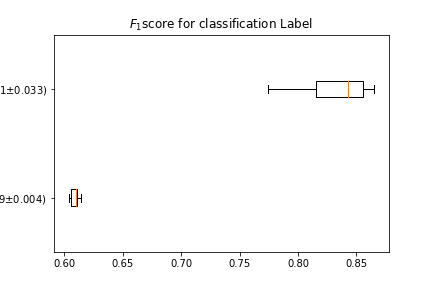
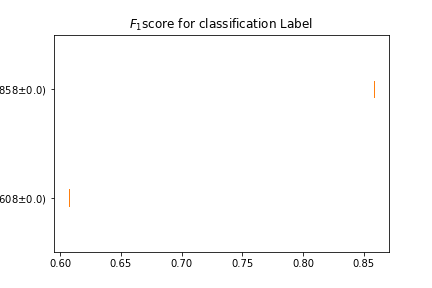
s

diff --git a/2_levels_problem/mode2/MLobject_tlevel.py b/2_levels_problem/mode2/MLobject_tlevel.py
@@ -95,26 +95,26 @@ class MyMLdata_2level:
         # 'param_list': [{'n_estimators': [200, 100, 1000, 500, 2000]}, {'alpha': [0.01, 0.1, 1, 10]}]
         # }
         # # all classification models:
-        # classification_default_param = {
-        # 'model_names': ['KNN', 'SVC', 'Decision tree', 'Random Forest',  'Gradient Boosting', 'Adaptive boosting', 'Naive Bayes', 'Neural Network'], # a list of name for each model.
-        # 'model_lists': [KNeighborsClassifier(n_neighbors = 5, weights='distance',n_jobs=-1), SVC(), DecisionTreeClassifier(), RandomForestClassifier(n_estimators=100, verbose =0,n_jobs=-1), GradientBoostingClassifier(verbose=0,loss='deviance'), AdaBoostClassifier(base_estimator = DecisionTreeClassifier(), n_estimators=10), GaussianNB(), MLPClassifier((100,100),alpha=0.001, activation = 'relu',verbose=0,learning_rate='adaptive')],# a list of model improted from sklearn
-        # 'gridsearchlist': [False, False, False, False, False, False, False, False],
-        # 'param_list': [{'n_neighbors':range(1, 30)}, {'C': [0.1, 1, 10], 'kernel': ('linear', 'poly', 'rbf')},  {'max_depth': [10, 100, 1e3]}, {'n_estimators':[10, 100]}, {'n_estimators':[10, 100]},{'n_estimators':[10, 100]}, {'var_smoothing':[1e-9, 1e-3]},{'hidden_layer_sizes':((100, 300, 500, 300, 100), (100, 300, 500, 500, 300, 100), (200, 600, 900, 600, 200))}]# a list of key parameters correspond to the models in the model_lists
-        # }
+        classification_default_param = {
+        'model_names': ['KNN', 'SVC', 'Decision tree', 'Random Forest',  'Gradient Boosting', 'Adaptive boosting', 'Naive Bayes', 'Neural Network'], # a list of name for each model.
+        'model_lists': [KNeighborsClassifier(n_neighbors = 5, weights='distance',n_jobs=-1), SVC(), DecisionTreeClassifier(), RandomForestClassifier(n_estimators=100, verbose =0,n_jobs=-1), GradientBoostingClassifier(verbose=0,loss='deviance'), AdaBoostClassifier(base_estimator = DecisionTreeClassifier(), n_estimators=10), GaussianNB(), MLPClassifier((100,100),alpha=0.001, activation = 'relu',verbose=0,learning_rate='adaptive')],# a list of model improted from sklearn
+        'gridsearchlist': [False, False, False, False, False, False, False, False],
+        'param_list': [{'n_neighbors':range(1, 30)}, {'C': [0.1, 1, 10], 'kernel': ('linear', 'poly', 'rbf')},  {'max_depth': [10, 100, 1e3]}, {'n_estimators':[10, 100]}, {'n_estimators':[10, 100]},{'n_estimators':[10, 100]}, {'var_smoothing':[1e-9, 1e-3]},{'hidden_layer_sizes':((100, 300, 500, 300, 100), (100, 300, 500, 500, 300, 100), (200, 600, 900, 600, 200))}]# a list of key parameters correspond to the models in the model_lists
+        }
         # # without SVC:
-        classification_default_param = {
-        'model_names': ['KNN', 'Decision tree', 'Random Forest',  'Gradient Boosting', 'Adaptive boosting', 'Naive Bayes', 'Neural Network'], # a list of name for each model.
-        'model_lists': [KNeighborsClassifier(n_neighbors = 5, weights='distance',n_jobs=-1), DecisionTreeClassifier(), RandomForestClassifier(n_estimators=100, verbose =0,n_jobs=-1), GradientBoostingClassifier(verbose=0,loss='deviance'), AdaBoostClassifier(base_estimator = DecisionTreeClassifier(), n_estimators=10), GaussianNB(), MLPClassifier((100, 300, 500, 300, 100),alpha=0.001, activation = 'relu',verbose=0,learning_rate='adaptive')],# a list of model improted from sklearn
-        'gridsearchlist': [False, False, False, False, False, False, False],
-        'param_list': [{'n_neighbors':range(1, 30)}, {'max_depth': [10, 100, 1e3]}, {'n_estimators':[10, 100]}, {'n_estimators':[10, 100]},{'n_estimators':[10, 100]}, {'var_smoothing':[1e-9, 1e-3]},{'hidden_layer_sizes':((100, 300, 500, 300, 100), (100, 300, 500, 500, 300, 100), (200, 600, 900, 600, 200))}]# a list of key parameters correspond to the models in the model_lists
-        }
+        # classification_default_param = {
+        # 'model_names': ['KNN', 'Decision tree', 'Random Forest',  'Gradient Boosting', 'Adaptive boosting', 'Naive Bayes', 'Neural Network'], # a list of name for each model.
+        # 'model_lists': [KNeighborsClassifier(n_neighbors = 5, weights='distance',n_jobs=-1), DecisionTreeClassifier(), RandomForestClassifier(n_estimators=100, verbose =0,n_jobs=-1), GradientBoostingClassifier(verbose=0,loss='deviance'), AdaBoostClassifier(base_estimator = DecisionTreeClassifier(), n_estimators=10), GaussianNB(), MLPClassifier((100, 300, 500, 300, 100),alpha=0.001, activation = 'relu',verbose=0,learning_rate='adaptive')],# a list of model improted from sklearn
+        # 'gridsearchlist': [False, False, False, False, False, False, False],
+        # 'param_list': [{'n_neighbors':range(1, 30)}, {'max_depth': [10, 100, 1e3]}, {'n_estimators':[10, 100]}, {'n_estimators':[10, 100]},{'n_estimators':[10, 100]}, {'var_smoothing':[1e-9, 1e-3]},{'hidden_layer_sizes':((100, 300, 500, 300, 100), (100, 300, 500, 500, 300, 100), (200, 600, 900, 600, 200))}]# a list of key parameters correspond to the models in the model_lists
+        # }
         # NN compared to Naive bias only only:
-        classification_default_param = {
-        'model_names': ['Naive Bayes', 'Neural Network'], # a list of name for each model.
-        'model_lists': [GaussianNB(), MLPClassifier(activation='relu', alpha=0.001, batch_size='auto', beta_1=0.9, beta_2=0.999, early_stopping=False, epsilon=1e-08, hidden_layer_sizes=(1024, 128), learning_rate='adaptive', learning_rate_init=0.001, max_iter=200, momentum=0.9, n_iter_no_change=10, nesterovs_momentum=True, power_t=0.5, random_state=None, shuffle=True, solver='adam', tol=0.0001, validation_fraction=0.1, verbose=1, warm_start=False)],# a list of model improted from sklearn
-        'gridsearchlist': [False, False],
-        'param_list': [{'var_smoothing':[1e-9, 1e-3]}, {'hidden_layer_sizes':((100, 300, 500, 300, 100), (100, 300, 500, 500, 300, 100), (200, 600, 900, 600, 200))}]# a list of key parameters correspond to the models in the model_lists
-        }
+        # classification_default_param = {
+        # 'model_names': ['Naive Bayes', 'Neural Network'], # a list of name for each model.
+        # 'model_lists': [GaussianNB(), MLPClassifier(activation='relu', alpha=0.001, batch_size='auto', beta_1=0.9, beta_2=0.999, early_stopping=False, epsilon=1e-08, hidden_layer_sizes=(1024, 128), learning_rate='adaptive', learning_rate_init=0.001, max_iter=200, momentum=0.9, n_iter_no_change=10, nesterovs_momentum=True, power_t=0.5, random_state=None, shuffle=True, solver='adam', tol=0.0001, validation_fraction=0.1, verbose=1, warm_start=False)],# a list of model improted from sklearn
+        # 'gridsearchlist': [False, False],
+        # 'param_list': [{'var_smoothing':[1e-9, 1e-3]}, {'hidden_layer_sizes':((100, 300, 500, 300, 100), (100, 300, 500, 500, 300, 100), (200, 600, 900, 600, 200))}]# a list of key parameters correspond to the models in the model_lists
+        # }
         # wihtout CSV, gradient boosting, adabosting
         # classification_default_param = {
         # 'model_names': ['KNN', 'Decision tree', 'Random Forest',  'Naive Bayes', 'Neural Network'], # a list of name for each model.

diff --git a/2_levels_problem/defect_2level_classification.py/defect_type_classification.py b/2_levels_problem/defect_2level_classification.py/defect_type_classification.py
@@ -37,8 +37,9 @@ sys.path.append(r'C:\Users\z5183876\OneDrive - UNSW\Documents\GitHub\SRH_sklearn
 sys.path.append(r'C:\Users\z5183876\OneDrive - UNSW\Documents\GitHub\SRH_sklearn_playwithdata\2_levels_problem\mode2\Savedir_example')
 from MLobject_tlevel import *
 # from dynamic_generation_regression import *
-df1 = MyMLdata_2level(r"G:\study\thesis_data_storage\unordered\classification\classify_one_two_levels\800k\2022-09-17-19-35-59_advanced example - multi_level_L_datasetID_0.csv", 'bandgap1',1)
+df1 = MyMLdata_2level(r"C:\Users\sijin wang\Desktop\research\thesiswork\ML_results\simulation_data\Etnonordered\one_vs_two_level_classification\80k\2022-09-14-10-03-50_advanced example - multi_level_L_datasetID_0.csv", 'bandgap1',5)
 # df1.data.head()
+# df1.data['Label']
 # %%-
 
 # %%-- perform classification
